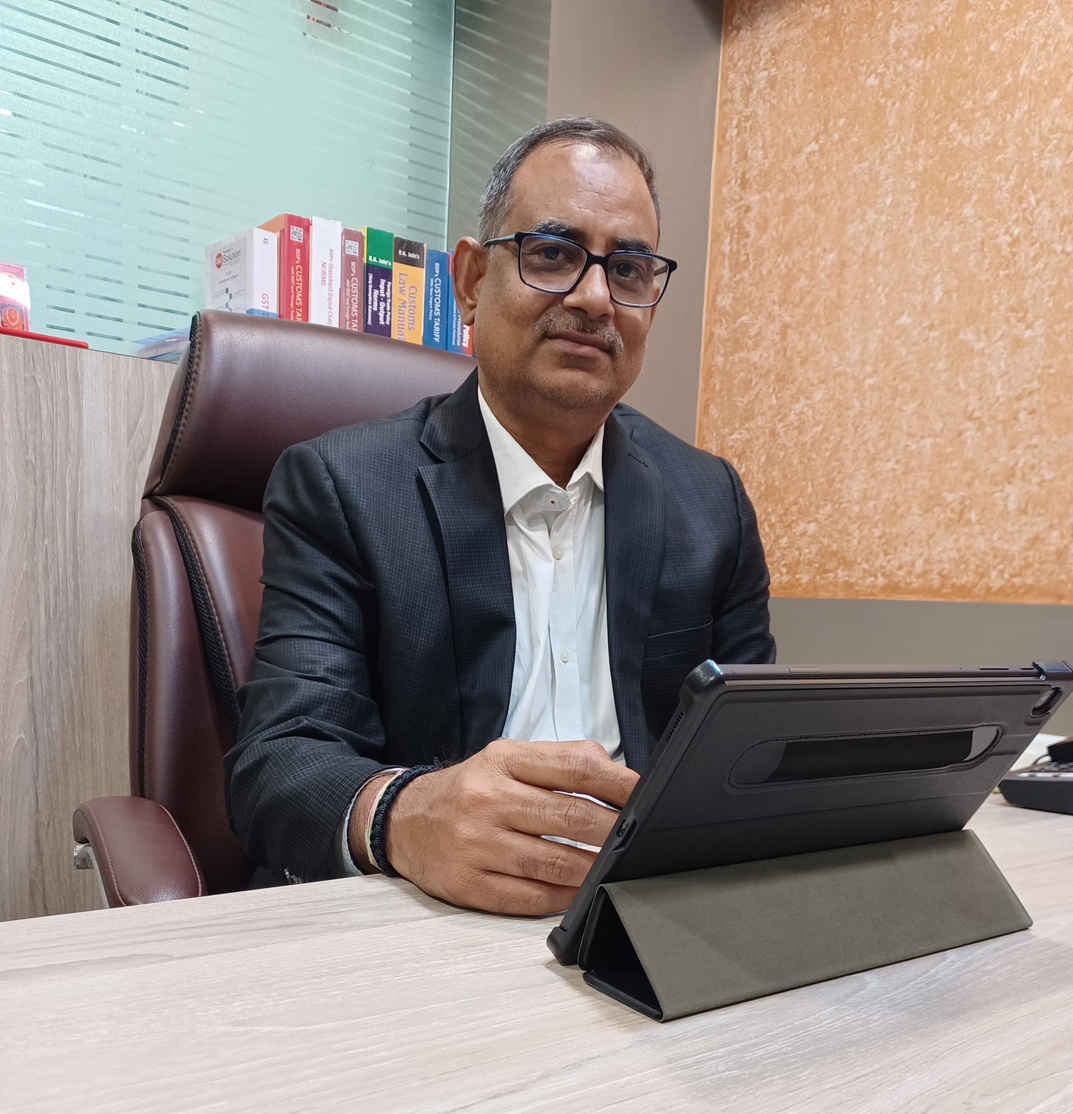
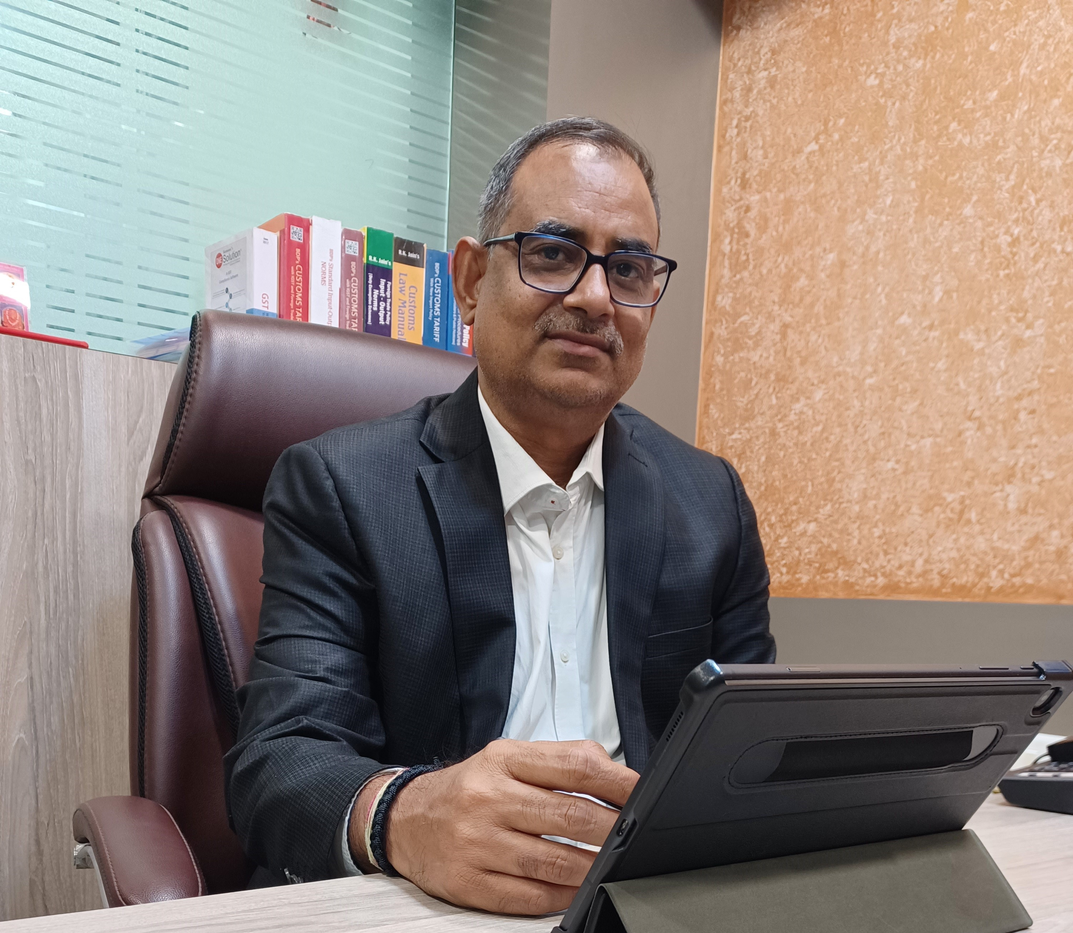
changes continue

diff --git a/about-us.html b/about-us.html
@@ -209,7 +209,7 @@
         </div>
         <div class="row content">
           <div class="col-lg-6 pt-4 pt-lg-0">
-            <img src="./images/message-from-founders/md-message1.jpg" style="height: 90%;" class="img-fluid" alt="">
+            <img src="./images/message-from-founders/md-message.webp" style="height: 90%;" class="img-fluid" alt="">
         </div>
   
           <div class="col-lg-6">
